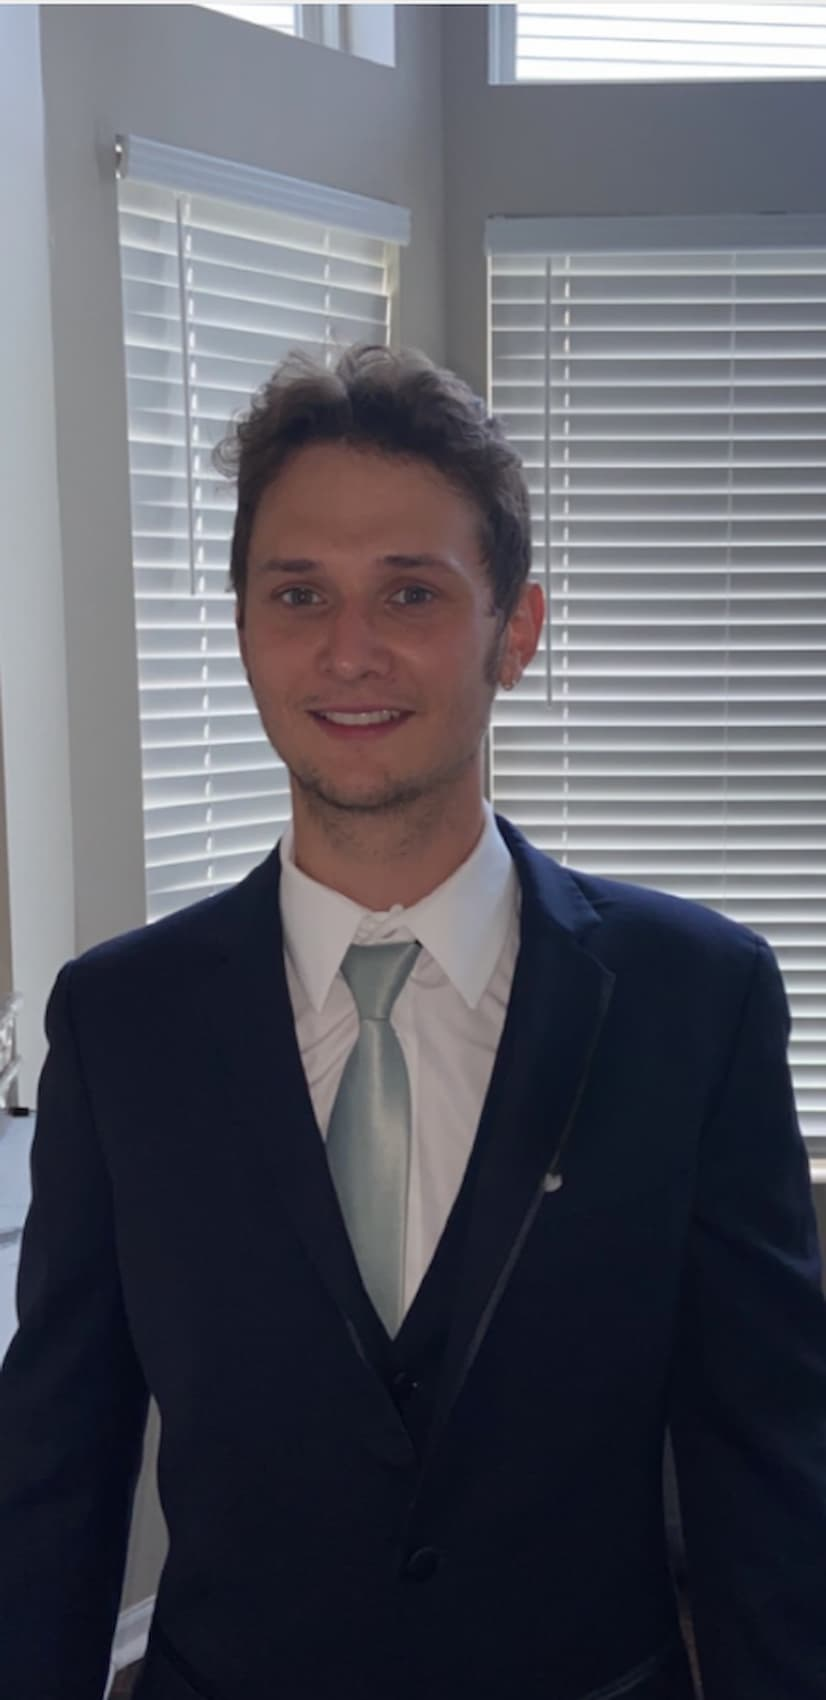
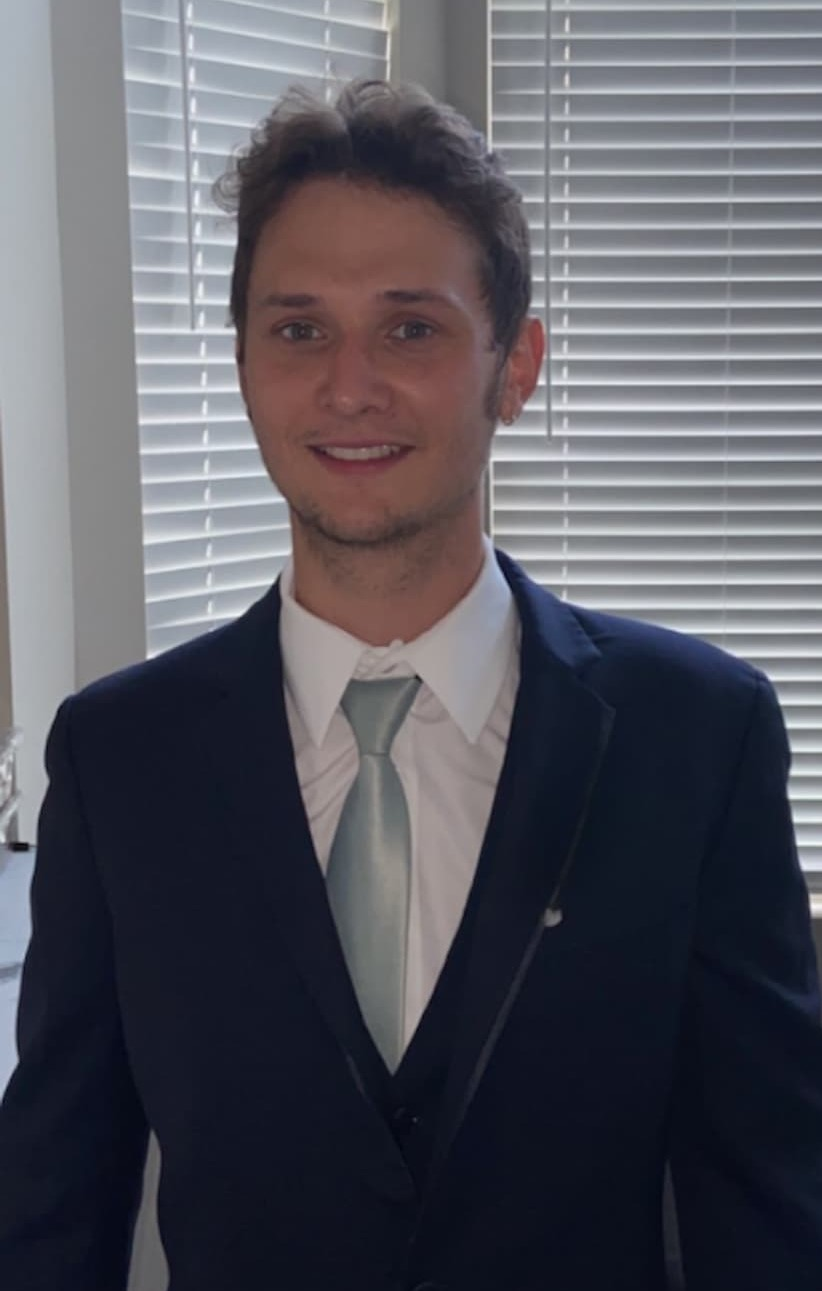
updated photo, btns

diff --git a/src/components/Projects/Projects.css b/src/components/Projects/Projects.css
@@ -68,12 +68,12 @@
   display: flex;
   align-items: center;
   justify-content: center;
-  transition: 0.8s;
+  transition: 0.5s;
   margin-right: 2.4rem;
 }
 
 .b1 {
-  background: -webkit-linear-gradient(0deg, transparent 50%, #15aabf 50%);
+  background: -webkit-linear-gradient(0deg, transparent 50%, #22b8cf 50%);
   background-size: 400px 80px;
   border-bottom: 2px solid #fff;
 }

diff --git a/src/components/About/About.css b/src/components/About/About.css
@@ -57,8 +57,8 @@
 }
 
 .about-me img {
-  width: 32rem;
-  height: 55rem;
+  width: 45%;
+  /* height: 55rem; */
   border-radius: 45%;
   box-shadow: 0 5px 12px rgba(0, 0, 0, 0.2);
   margin-bottom: 6.2rem;
